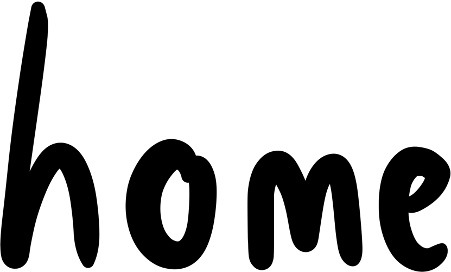
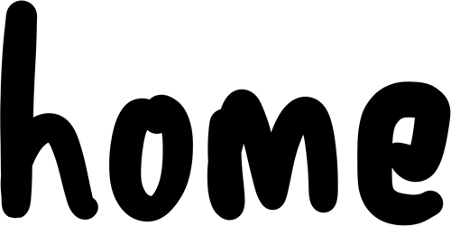
update

diff --git a/styles.css b/styles.css
@@ -12,6 +12,7 @@ header{
     border-radius: 25px;
     margin:10px;
     padding-top:10px;
+    padding-bottom: 5px;
     background-color: rgb(158, 216, 161);
 }
 
@@ -36,18 +37,19 @@ header a{
     flex-direction: column;
     justify-content: center;
     align-items: center;
+
 }
 
 .technical-info{
     display:flex;
     gap:4px;
-    align-items: start;
+    align-items: center;
     flex-direction: column;
     padding:15px;
     background-color: rgb(104, 216, 132);
     border-radius: 25px;
-    width: 90%;
-    max-width:833px;
+    width: 55%;
+    max-width:100%;
 }
 
 .top-line{
@@ -61,17 +63,24 @@ header a{
     gap:4px;
     align-items: start;
     flex-direction: column;
-    padding:15px;
+    padding-left: 25px;
+    padding-top:15px;
+    padding-bottom: 15px;
     background-color: rgb(142, 211, 159);
     border-radius: 25px;
     margin-bottom: 20px;
-    width:90%;
-    max-width: 833px;
+    width:55%;
+    max-width: 100%;
+}
+
+.hero img{
+    padding-left:25px;
+    padding-top:17px;
 }
 
 .sidebar-left{
     position: fixed;
-    top:770px;
+    top:700px;
     left:10px;
     display:flex;
     flex-direction: column;
@@ -94,11 +103,15 @@ h1{
     font-size: 50px;
 }
 
+.technical-info h1{
+    align-self:flex-start;
+    padding-left: 20px;
+}
+
 .skills{
     max-width:833px;
     display:flex;
-    justify-content: center;
-    gap: clamp(10px, 5vw, 80px);
+    gap: clamp(5px, 5vw, 80px);
     
 }
 

diff --git a/index.html b/index.html
@@ -12,16 +12,16 @@
                <img src = "images/logo.png" width = 200 height = auto> 
             </div>
             <div class = "header-links">
-                <a href = "/" class = "hdr1">home</a>
-                <a href = "#" class = "hdr2">projects</a>
-                <a href = "#" class = "hdr3">blog</a>
+                <a href = "/" class = "hdr1"><img src = "images/home.png" width = 50></a>
+                <a href = "#" class = "hdr2" style = padding-top:10px;><img src = "images/projects.png" width = 80></a>
+                <a href = "#" class = "hdr3" style = padding-top:7px;><img src = "images/blog.png" width = 40></a>
             </div>
         </header>
         <div class = "content-wrapper">
             <section class = "hero">
                 <div class = "top-line">
                     <h1>welcome! I'm Jack Fretwell</h1>
-                    <img src = "images/fretworks_face.png" width = 120 height = auto>
+                    <img src = "images/fretworks_face.png" width = 110 height = 125>
                 </div>
                 <p>I'm a second year Computer Science student at the University of Liverpool.</p>
                 <p>I enjoy working on side projects, so this is a place where I can show you what I've been up to!</p>
